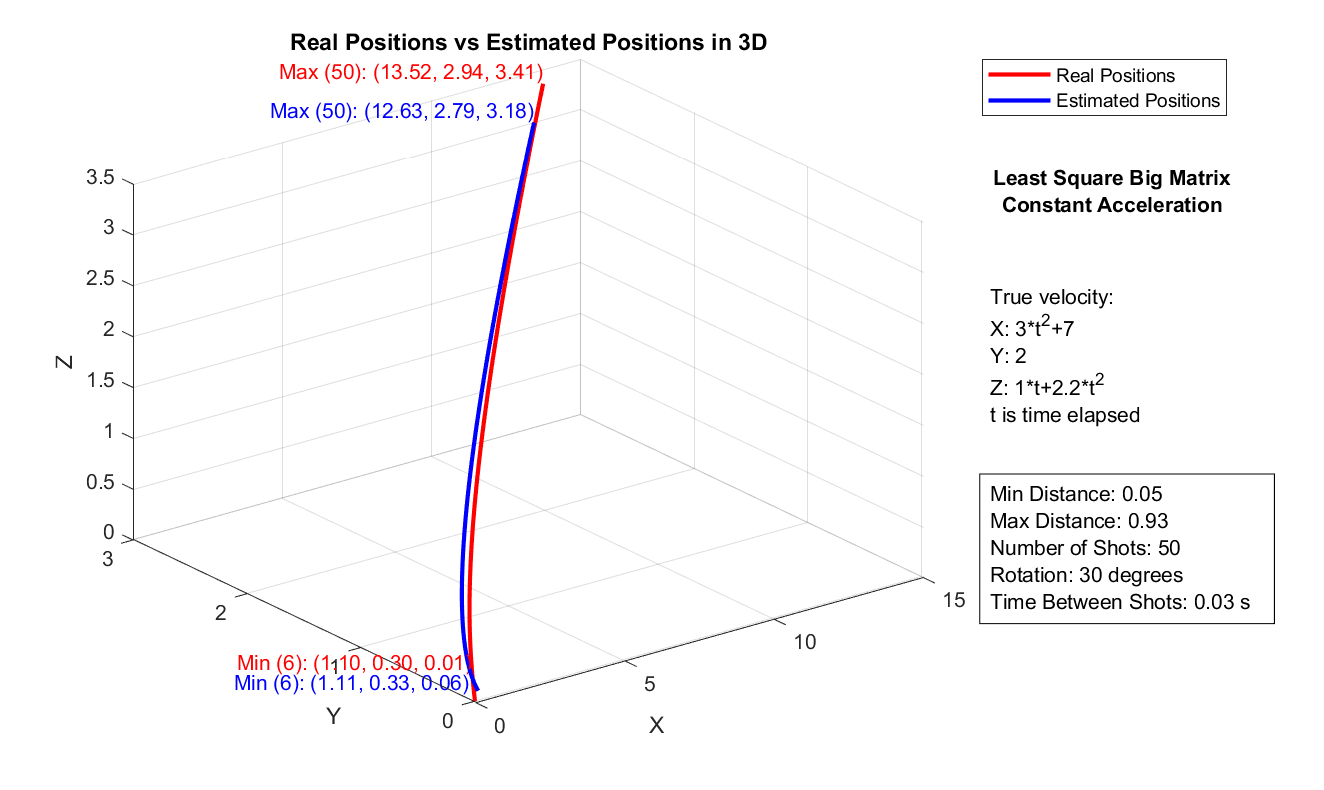
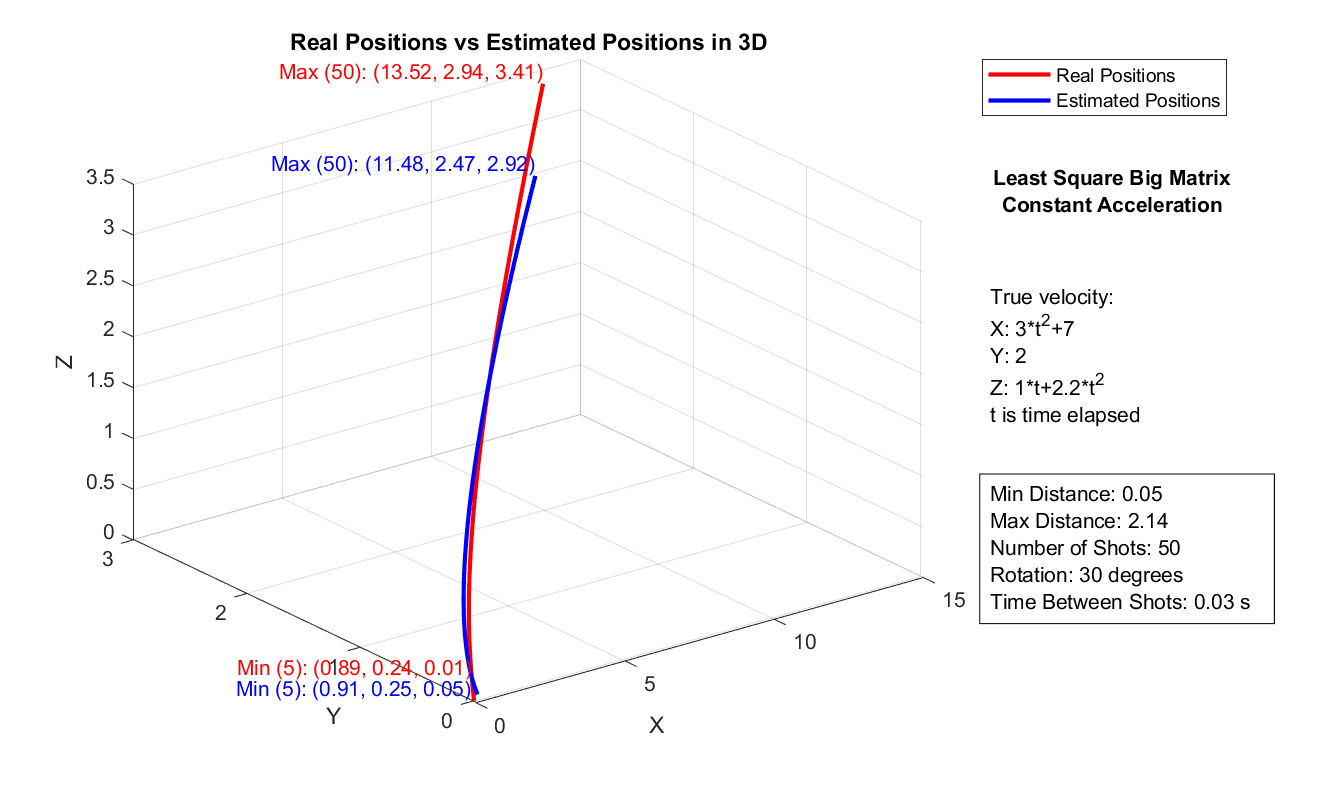
COnst acce data

Changed region(s): [[0.1548, 0.1823, 0.4026, 0.881], [0.1858, 0.1215, 0.4026, 0.1519], [0.8361, 0.638, 0.898, 0.6684]]

diff --git a/Phase3_Changing_Acc/Phase3_pt_3d_success.m b/Phase3_Changing_Acc/Phase3_pt_3d_success.m
@@ -13,10 +13,10 @@ RDD = 1; % m, Reference-Detector (screen) Distance
 
 method = 0; % 0 for least square, 1 for kalman
 
-% v = @(t) [3*t^2+7;2;1*t+2.2*t^2]; %velocity function
-v = @(t) [5;1;1]; %velocity function
+v = @(t) [2;1*t+3*t^2;2]; %velocity function
+% v = @(t) [5;1;1]; %velocity function
 
-poly_highest_degree = 2;
+poly_highest_degree = 1;
 % v = @(t) [3;2;1]; %velocity function
 
 % Process error
@@ -67,6 +67,7 @@ for k = 1:NOS-1
 
 end
 
+distance_traveled = norm(real_Positions(end,:) - real_Positions(1,:))
 % plot the true positions in red ('r') and estimated positions in blue ('b')
 % Create a figure
 f1 = figure;
@@ -162,6 +163,17 @@ annotation('textbox', [0.74, 0.55, 0.26, 0.1], ...
     'VerticalAlignment', 'top', ...
     'EdgeColor', 'none');
 
+
+
+% Set the scale for each axis
+x_scale = [-1, 1]; % Specify the desired minimum and maximum values for the x-axis
+y_scale = [-1, 1]; % Specify the desired minimum and maximum values for the y-axis
+% z_scale = [-1, 1]; % Specify the desired minimum and maximum values for the z-axis
+
+% Set the scale of each axis
+xlim(x_scale);
+ylim(y_scale);
+% zlim(z_scale);
 
 grid on;
 xlabel('X');
